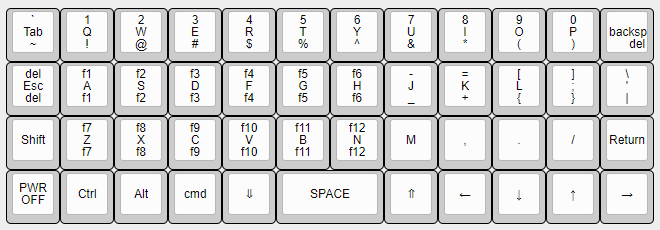
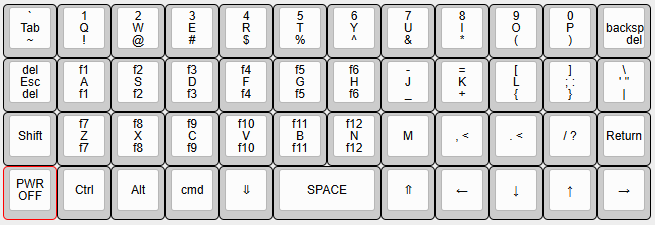
update quick start guide rev.2

diff --git a/micro-journal-rev-2-revamp/quickstart.md b/micro-journal-rev-2-revamp/quickstart.md
@@ -2,9 +2,16 @@
 
 ![Diagram](./quickstart/diagram.png)
 
+What you get out of the box is a writing device with a large screen, a mechanical keyboard that is well laid out for writers, a well-featured while still minimal text editor and a quick and easy method of sharing files with your PC. In other words, everything you need to write (and even edit if you want to, but your PC will always be better at that). You don't need any technical skills beyond following directions to set it up and you quickly have a Modern Dana. You should add an external battery to get longer life, but that's it.
+
 # First things to do
 
 When you receive the **Micro Journal Rev.2**, you'll need to install a battery before using it. Please follow the steps below to complete the setup:
+
+1. **Buy 18650 Lithium ion battery**. Search with term "LiPo 18650" and should be able to find the fitting battery. Here is the link where battery is sourced typically from the users.
+
+   * https://www.18650batterystore.com/products/samsung-30q
+   * Send a message in tindie when you find some reliable places or links to buy the battery in your country.
 
 1. **Install the battery**: The **Rev.2.Revamp** will not function without a battery. Ensure the battery is properly installed before attempting to power it on.
 
@@ -19,22 +26,26 @@ When you receive the **Micro Journal Rev.2**, you'll need to install a battery b
 
 **Important: The Micro Journal Rev.2 requires a specific battery type, not AA or AAA batteries.**
 
-Due to EU delivery restrictions, **the required battery is not included** in the package. To power your device, you will need to purchase an 18650 3.7V Lithium-ion battery separately. 
+Due to EU delivery restrictions, **the required battery is not included** in the package. To power your device, you will need to purchase an 18650 Lithium-ion battery separately. 
 
 #### Battery Specifications:
-- **Type:** 18650 Lithium-ion battery (3.7V)
-- **Capacity:** Should not exceed 3300mAh
+- **Type:** 18650 Lithium-ion battery
 
 You can find 18650 batteries online or at most electronics retailers. **Both flat top and button top batteries are compatible,** though users report that flat tops may fit better.
 
 #### Important Tips for Battery Selection:
-- **Brand matters:** It is recommended to buy from a well-known, reputable brand.
 - **Capacity limit:** Be cautious of any battery that claims a capacity higher than 3300mAh—batteries with higher capacities in this form factor do not exist.
 
 Please make sure to install the battery correctly before powering on your Micro Journal Rev.2 for the first time.
 
 **Battery Life:** The internal battery will typically provide **2 to 3 hours** of usage. For extended writing sessions, it's recommended to connect a **portable battery pack**. 
-  - A **10,000 mAh power bank** will provide approximately **+10 hours** of usage. Every additional **1,000 mAh** translates to about **+1 hour** of writing time.
+
+- A **10,000 mAh power bank** will provide approximately **+10 hours** of usage. Every additional **1,000 mAh** translates to about **+1 hour** of writing time.
+
+- https://www.amazon.com/dp/B0CZ9LH53B
+
+- When buying power bank, make sure to have USB-A port avaialble. Some advanced chargers which supports only PD may not be able to charge. 
+
 
 
 
@@ -52,9 +63,11 @@ While your Micro Journal Rev.2 ships with the Micro SD card already installed an
 
 Default configuration is designed to be user-friendly, allowing you to quickly get into writing mode without needing to learn complex Linux terminal commands.
 
+
+
 # For Advanced Users
 
-If you are familiar with Raspberry Pi configurations, feel free to customize the setup. The Micro Journal Rev.2 has no major constraints, though a minor display configuration may be necessary. Beyond that, you have the freedom to configure the Raspberry Pi as you prefer.
+If you are familiar with Raspberry Pi and Linux configurations, feel free to customize the setup. The Micro Journal Rev.2 has no major constraints, though a minor display configuration may be necessary. Beyond that, you have the freedom to configure the Raspberry Pi as you prefer.
 
 
 
@@ -63,94 +76,99 @@ If you are familiar with Raspberry Pi configurations, feel free to customize the
 
 ### Step 1. Open the Bottom Compartment and Install the Battery
 
-![Opening Up](./quickstart/001.png)
+<img src="./quickstart/001.png" width="400" />
 
-1. **Unscrew the two screws** located on the bottom compartment. Carefully lift the display section and place it on top of the keyboard. Be gentle—there are thin wires connected to the display, and pulling too hard may disconnect them.
+There are two TORX T10H screws on either side in front of the hinge cylinders. They are long screws and you don't need to pull them all the way out. 
 
-
-
-![Opening Up](./quickstart/002.png)
+**Unscrew the two screws** located on the bottom compartment. Carefully lift the display section and place it on top of the keyboard. Be gentle—there are thin wires connected to the display, and pulling too hard may disconnect them.
 
 
+<img src="./quickstart/002.png" width="400" />
 
-2. **Lift from the left-hand side** to reduce the risk of damaging the wires.
+**Lift from the left-hand side** to reduce the risk of damaging the wires.
 
-![Opening Up](./quickstart/003.png)
-
-
-3. **Be mindful of the wire length.** If you lift the display higher than shown above, you may risk damaging the wires, potentially requiring basic soldering skills.
+<img src="./quickstart/003.png" width="400" />
 
 
+**Be mindful of the wire length.** If you lift the display higher than shown above, you may risk damaging the wires.
 
-![Opening Up](./quickstart/005.png)
+<img src="./quickstart/005.png" width="400" />
 
 
-4. Once lifted, gently rest the display on top of the keyboard. You will now see the battery holder.
+Once lifted, gently rest the display on top of the keyboard. You will now see the battery holder.
 
----
+
 
 ### Installing the Battery
 
-1. **Check the battery polarity carefully.** The battery holder has markings for positive (+) and negative (-) polarity. The spring side of the holder is the negative (-) side. Incorrect polarity can cause irreversible damage to the device.
+**Check the battery polarity carefully.** The battery holder has markings for positive (+) and negative (-) polarity. The spring side of the holder is the negative (-) side. Incorrect polarity can cause irreversible damage to the device.
 
-2. **Install the 18650 battery,** ensuring you follow the correct polarity as shown on the battery holder.
+**Install the 18650 battery,** ensuring you follow the correct polarity as shown on the battery holder.
 
-3. **Double-check the installation** to ensure the battery is properly seated and the polarity is correct.
+**Double-check the installation** to ensure the battery is properly seated and the polarity is correct.
 
----
+
 
 ### Important Notes:
 
-- **Ensure the battery is fully charged** before use. LiPo batteries are not shipped fully charged. After installing the battery, connect the device to the charging port and leave it charging for at least 4 hours before first use.
+**Ensure the battery is fully charged** before use. LiPo batteries are not shipped fully charged. After installing the battery, connect the device to the charging port and leave it charging for at least 4 hours before first use.
 
-- **Battery installation safety:** Improper handling or installation can cause a fire. Be cautious and avoid over-tightening the screws. If the case doesn’t close easily, check that no cables are pinched, as this could lead to short circuits, damage, or fire hazards.
+**Battery installation safety:** Improper handling or installation can cause a fire. Be cautious and avoid over-tightening the screws. If the case doesn’t close easily, check that no cables are pinched, as this could lead to short circuits, damage, or fire hazards.
 
-
-
-
-### Step 2. Power On
-
-**Battery Life:** The internal battery will typically provide **2 to 3 hours** of usage. For extended writing sessions, it's recommended to connect a **portable battery pack**. 
-  - A **10,000 mAh power bank** will provide approximately **+10 hours** of usage. Every additional **1,000 mAh** translates to about **+1 hour** of writing time.
-  - When buying power bank, make sure to have USB-A port avaialble. Some advanced chargers which supports only PD may not be able to charge. 
-
-![Powering On](./quickstart/006.png)
-
-1. **Once the battery is fully charged,** flick the power switch to the "ON" position. It will take around **30 to 50 seconds** for the Micro Journal to fully boot up and be ready for use.
- - to verify it's charging, look for a red light to shine through the grill in the back when you plug it in.
- - please use a small mobile phone charger (like a Raspberry pi 5V 2.5 amp one) to charge the Rev2, because trying to use a bigger/more advanced charger (PD Charger) does not charge the Rev2. Typically usb-c to c cables won't be able to charge. Try with USB-A to C charging cables.
-
-
-2. **Initial delay:** After switching it on, the screen may not immediately display anything. This is normal. It can take up to 30 seconds for the Raspberry Pi to recognize and activate the display.
-
-3. **Check the SD card:** If the screen remains blank for too long, check for a green light near the micro SD card slot. This light indicates that the system is booting. If no green light appears, the SD card may not be properly installed. 
-
-![Powering On](./quickstart/008.png)
-
-   - **Solution:** Power off, reinsert the SD card, and try again. If the issue persists, you may need to replace or reconfigure the SD card.
 
 ---
 
-![Powering On](./quickstart/007.png)
+### Step 2. Power On
 
 
+<img src="./quickstart/007.png" width="400" />
 
-### Step 3. Dashboard
 
-![Dashboard](./quickstart/009.png)
+**Battery Life:** The internal battery will typically provide **2 to 3 hours** of usage. For extended writing sessions, it's recommended to connect a **portable battery pack**. 
 
-After the device has fully booted up, you will be greeted with the **Dashboard**. The retro aesthetic should feel nostalgic—just like an old-school terminal interface!
+<img src="./quickstart/006.png" width="400" />
 
-- Use the **cursor keys** to navigate the options on the screen. You can press the **up** and **down** arrows to move between selections.
+**Once the battery is fully charged,** flick the power switch to the "ON" position. It will take around **30 to 50 seconds** for the Micro Journal to fully boot up and be ready for use.
+ - to verify it's charging, look for a red light to shine through the grill in the back when you plug it in.
+ - use a small mobile phone charger to charge the Rev2, because trying to use a bigger/more advanced charger (PD Charger) does not charge the Rev2. Typically usb-c to c cables won't be able to charge. Try with USB-A to C charging cables.
+
+
+**Initial delay:**  Rev 2 is not instant on. It has to boot Linux first, since everything runs off that. If you haven't used Linux before, you will see a lot of incomprehensible text go whizzing by too fast to read. At first the text will fly by in the wrong direction on the screen and finally it will reorient. Just ignore everything until you are given the terminal dashboard.
+
+
+**Check the SD card:** If the screen remains blank for too long, check for a green light near the micro SD card slot. This light indicates that the system is booting. If no green light appears, the SD card may not be properly installed. 
+
+<img src="./quickstart/008.png" width="400" />
+
+**When not booting** Power off, reinsert the SD card, and try again. If the issue persists, you may need to replace or reconfigure the SD card. 99% of the issues is related to SD card. Please, refer to this document when you need to setup the SD card.
+
+[Raspberry Pi SD Card Setup How-To](./raspberrypi/readme.md)
+
+
+---
+
+### Step 3. Using the Dashboard
+
+After the device has fully booted up, you will be greeted with the **Dashboard**. 
+
+The dashboard is a kind of menu. It really is a crude file manager, but you have one folder (documents) and several scripts (files ending with .sh-- if you ever used DOS, think batch files) and you use the arrow keys to select among them, so it acts like a menu.
+
+<img src="./quickstart/009.png" width="400" />
+
+The documents folder is obviously where your files will be stored. You use the right arrow to move to the list of file names in that folder and hit enter to open any file in WordGrinder. To create a new file, you arrow down from the documents folder to the script called newfile. We will get to WordGrinder in a moment.
+
+Use the **cursor keys** to navigate the options on the screen. You can press the **up** and **down** arrows to move between selections.
   
-- To create a new document, select **"newfile.sh"** and press **Enter** or the **right cursor key**. This will open **WordGrinder**, where you can begin typing.
+To create a new document, select **"newfile.sh"** and press **Enter** or the **right cursor key**. This will open **WordGrinder**, where you can begin typing.
 
-- To save your work in WordGrinder, press **Ctrl + S**, and to quit, press **Ctrl + Q**.
+To save your work in WordGrinder, press **Ctrl + S**, and to quit, press **Ctrl + Q**.
 
-- All new files are saved in the **"documents"** folder. This is also where the sharing feature will access your files. Be sure to save everything in this folder to enable easy file sharing later.
+Here are some more commands that you can utilize in the dashboard.
+
+https://gist.github.com/heroheman/aba73e47443340c35526755ef79647eb
 
 
-
+---
 
 ### Step 4. WiFi Setup
 
@@ -162,23 +180,8 @@ To connect to a WiFi network, follow these steps:
 4. Enter the **SSID** (name) of your WiFi network.
 5. Enter the **password** for your WiFi network.
 
+
 ---
-
-#### Additional Instructions for First Batch Recipients:
-
-If you received a device from the first batch, you may need to adjust the font size to see the full Raspberry Pi configuration menu. 
-
-1. Run **"font.sh"** from the dashboard and press **Enter** through the menu until you see **"16x32"** on the screen. You may see some intimidating screens. With numbers and lists. At the first screen choose 27, and then from the next screens, follow your intuition, and try to reach to a point where it shows you to choose the font size. 
-2. Use the **Up** key to select **8x16** for a smaller font size that allows the full menu to display.
-3. Press **q** to quit and return to the Linux command mode.
-4. Type the following command and press **Enter**:   
-   ```
-   sudo systemctl start NetworkManager.service
-   ```
-5. Then type **"ranger"** and press **Enter** to return to the dashboard.
-
-After completing these steps, retry the WiFi setup process.
-
 
 
 ### Step 5. Sharing Your Files
@@ -188,42 +191,70 @@ To share or access files from the Micro Journal, follow these steps:
 1. Select **"share.sh"** from the dashboard and press **Enter**.
 2. Wait a few seconds, and once you see the **IP address**, enter it in the web browser of your PC.
 
-![drive](./quickstart/010.png)
+<img src="./quickstart/010.png" width="400" />
 
 You will be greeted by a web interface where you can download, manage, and extract files stored in the **"documents"** folder on your Micro Journal.
 
----
 
-#### Note on WordGrinder Files:
-WordGrinder saves files in its own format. To read or share them easily, you must export the file as either **PDF** or **Plain Text**. To export a document, press the **ESC** key while in WordGrinder to access the export options.
+---
 
 
 ### Step 6. Getting into Writing
 
-1. **Power on** the device.
-2. Navigate to the **"documents"** folder using the right cursor key.
-3. **Select a file** and press **Enter** to open it.
-4. Start **writing**!
-5. To save and quit, press **Ctrl + S** to save, and **Ctrl + Q** to exit.
-6. After you're done, run **"share.sh"** to export and share your files.
+You are now ready to go. Select **newfile.sh** on the dashboard and hit enter and you are in [WordGrinder](https://cowlark.com/wordgrinder/index.html). It will tell you it can't load your file (of course not... it's a new file so it doesn't exist yet). Hit space and you will be in the new, blank WordGrinder file. Quite honestly you can just type, and use **ctrl-s** to save and **ctrl-q** to quit. But WordGrinder has a complete menu system you access with the **Esc** key. Wordgrinder saves in a non-standard Text format. Luckily, WordGrinder has it's own export function to convert it to text or pdf.
+
+All your files go into the documents folder, including the exported text and pdf files. You then get access to them on your computer by exiting WordGrinder and selecting the **share.sh** script. It will give you an ip address. Type that ip address into your browser on your computer (or, I assume, phone) and you will be able to see those files, open them and copy and paste.
+
+You may need to be in the same wifi network as the Micro Journal in order to access the share features.
 
 
+#### Note on WordGrinder Files:
+
+WordGrinder saves files in its own format. To read or share them easily, you must export the file as either **PDF** or **Plain Text**. To export a document, press the **ESC** key while in WordGrinder to access the export options.
+
+---
 
 
 ### Customizing the Keyboard Layout
 
-**Note:** Detailed instructions will be added in the future.
 
-To customize the keyboard layout of the Micro Journal, use the USB port located on the bottom of the keyboard. This allows you to connect the keyboard to a PC.
+<img src="./keyboard/layout.png" />
 
-1. **Download and install the software** called **Vial** from [Vial's website](https://get.vial.today/).
+You can customize the keyboard layout. Here are the steps that has been discovered by Hook.
 
-2. **Connect the keyboard to your PC**:
-   - Before connecting the keyboard, you must **disconnect it from the Raspberry Pi**. 
-   - To do this, open the display back panel and remove the USB cable from the Raspberry Pi.
+So here is the method I have used and it works every time. I am working with a ThinkPad laptop with Windows 10. I assume it would be fine with Win 11 and Linux, but haven't tested.
 
-3. Once the keyboard is disconnected from the Raspberry Pi, connect it to your PC. When you run the Vial software, you will be guided through the process of customizing the keyboard layout.
+In order to do this, you first need to download and install Vial. The download and user manual are available here:
 
-4. After completing your customization, remember to **reconnect the USB cable back to the Raspberry Pi**.
+get.vial.today/
 
-**Note:** Detailed instructions will be provided soon.
+Once Vial is installed, you are ready to begin.
+
+1. Power down the Rev 2 by holding the bottom left hand power key on the keyboard. You can let go once the shutdown sequence begins.
+
+2. Set the power switch on the back to off.
+
+3. connect a USB cable from the USB port on the side of the keyboard (Micro-USB or USB-c) to your computer (USB-A in my case). That port is for the keyboard controller which Vial will access.
+
+4. Open Vial on your computer. When it opens, you will see a screen that looks like this.
+
+<img src="./keyboard/vial.jpg" />
+
+There are a lot of things you can do with Vial, but I have not explored them. You can do whatever you are comfortable with from the user manual, but I am only going to address the simple matter of changing the position of keys in the top layer of your keyboard.
+
+The smaller keyboard at the top is what Vial is reading from the Rev 2. You will notice it shows 5 rows but you only have 4. So ignore the 5th row. All those triangles means there is nothing there anyway. You can see there are tabs to change to you other layers (shift, arrow up and arrow down) but I am only going to deal with this top layer, the normal map for pressing a key and getting a character or function.
+
+Below is a larger set of keys. There are several tabs on this lower display allowing you to select from many kinds of keys. Everything you need is on the basic tab,. Until you learn more and are comfortable,if you don't know what something does, don't mess with it. Lol.
+
+To change a key, select it in the top image of your ortholinear keyboard and then select what key you want to replace it with on the keys in the bottom half of the screen. Click on it and that key will replace the key you previously selected. As soon as you do it, that change is reflected in the Micro Journal's keyboard. That's my keyboard up top. You can see I have changed my arrow navigation keys to a more conventional D-Pad configuration.
+
+5. When you are done, close Vial.
+
+6. Disconnect the USB cord from the keyboard USB port on the Micro Journal.
+
+That's it. When you start up the Micro Journal, you should have your key assignments that you changed.
+
+
+# Credit
+
+[Many of the texts and instructions provided by Hook from Flickr community](https://www.flickr.com/groups/alphasmart/discuss/72157721921183163)

diff --git a/micro-journal-rev-2-revamp/raspberrypi/readme.md b/micro-journal-rev-2-revamp/raspberrypi/readme.md
@@ -1,4 +1,23 @@
 
+# Flashing from the Image File
+
+**Note**: This process will erase all data on the SD card. Please back up any important files before proceeding.
+
+To set up your SD card, download the image file and flash it using your PC. Here's how:
+
+1) Download **microjournal.rev.2.img.zip** from [this link](https://github.com/unkyulee/micro-journal-linux/releases).
+
+2) Download [balenaEtcher](https://www.balena.io/etcher) on your PC.
+
+3) Use balenaEtcher to flash the SD card, ensuring its at least 4 GB in size.
+
+After flashing, the SD card will be ready for use. Insert it into the Micro Journal Rev.2, and it should start booting up automatically.
+
+The following steps are optional and offer a detailed guide on the image configuration. Refer to them if you'd like to customize the setup further.
+
+
+
+
 # Raspberry Pi Setup
 
 Micro Journal Rev.2 ReVamp uses Raspberry Pi Zero 2W. This is a guide to setup the Raspberry Pi 2W for the Micro Journal.
@@ -9,7 +28,7 @@ You will need:
 * Micro SD card minimum 4GB
 * PC and Micro SD card reader
 * Micro Jouran Rev.2.ReVamp
- 
+
 
 # Flash Raspberry Pi OS Lite
 
